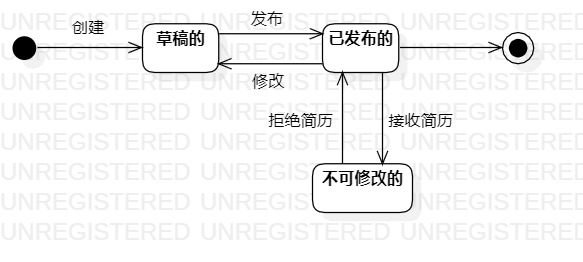
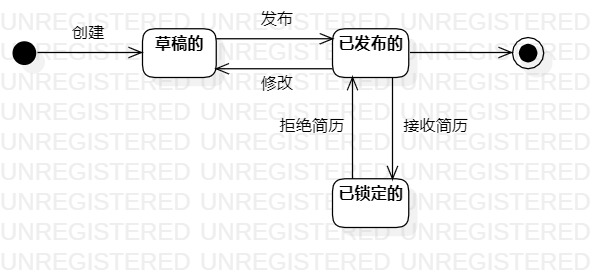
修改实验7

Changed region(s): [[0.0, 0.0305, 0.9262, 0.8244], [0.0309, 0.2137, 0.0617, 0.2443]]

diff --git a/students/1714080901106/lab7.md b/students/1714080901106/lab7.md
@@ -15,15 +15,15 @@
 1. 确定要描述的对象
     * 招聘信息：作为一个管理招聘信息的系统，基本上所有的操作都是基于招聘信息的，所以招聘信息是最关键的对象
 2. 确定招聘信息的各个状态
-    * 在发布之前处于草稿的状态
-    * 发布后处于已发布的状态
-    * 被求职者投递简历后处于不可修改的状态
+    * 在发布之前处于 “草稿的” 状态
+    * 发布后处于 “已发布的” 状态
+    * 被求职者投递简历后处于 “已锁定的” 状态
 3. 确定使招聘信息转换状态的操作
     * 创建：HR点击创建后从初始节点进入 “草稿的” 状态
     * 发布：HR编辑完并点击发布按钮后从 “草稿的” 变为 “已发布的” 状态
     * 修改：HR点击修改后从 “已发布的” 回到 “草稿的” 状态
-    * 接收简历：接收到求职者投递的简历后 “已发布的” 招聘信息不能被修改，进入 “不可修改的” 状态
-    * 拒绝简历：拒绝掉求职者的简历后招聘信息又从 “不可修改的” 回到 “已发布的” 状态
+    * 接收简历：接收到求职者投递的简历后 “已发布的” 招聘信息不能被修改，进入 “已锁定的” 状态
+    * 拒绝简历：拒绝掉求职者的简历后招聘信息又从 “已锁定的” 回到 “已发布的” 状态
 
 ## 四、实验结果
 
